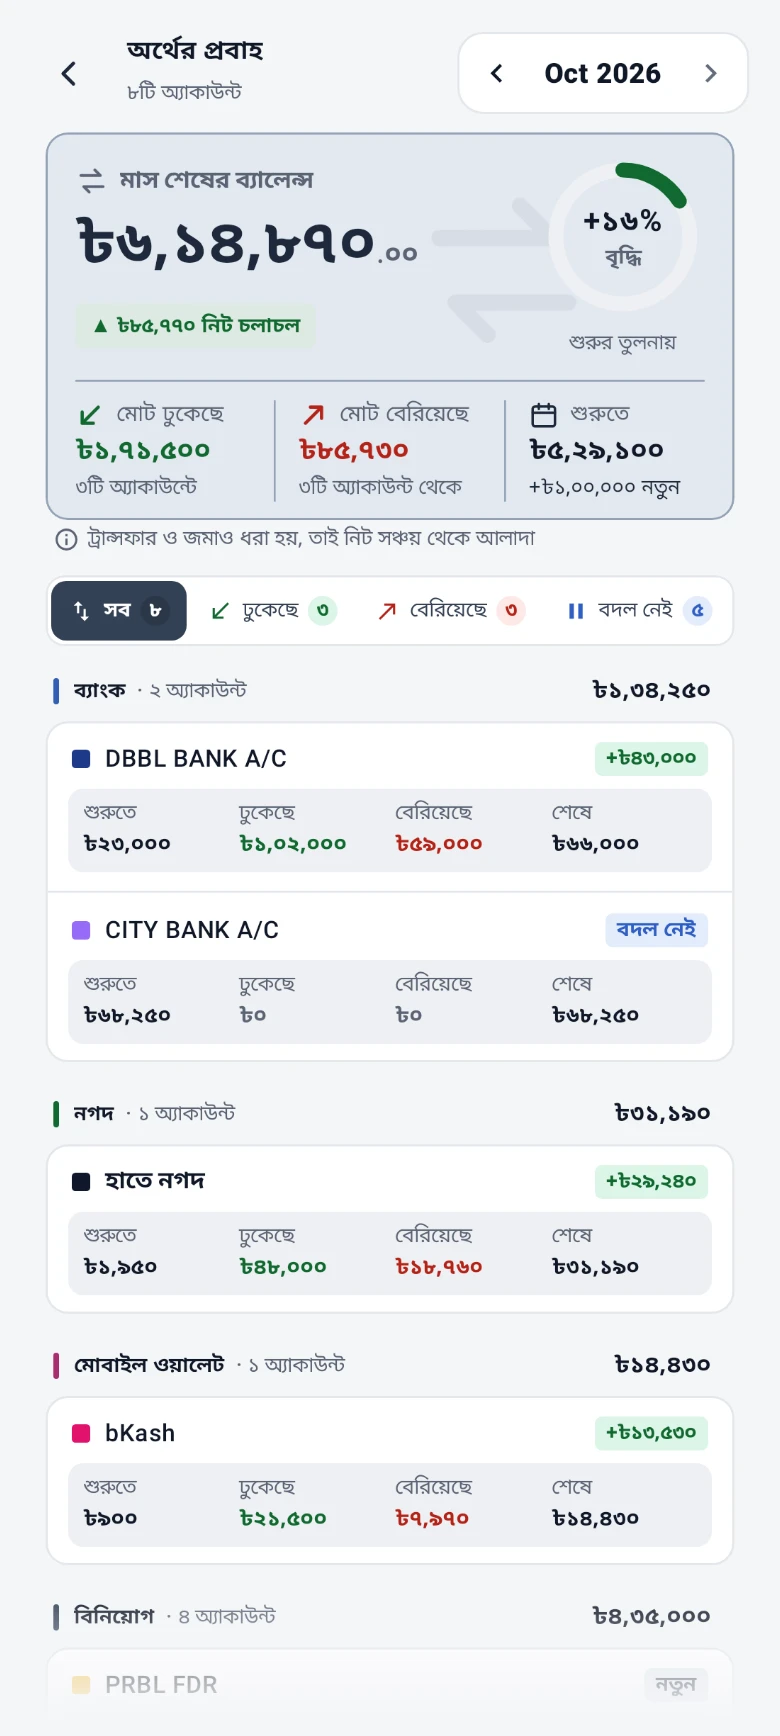
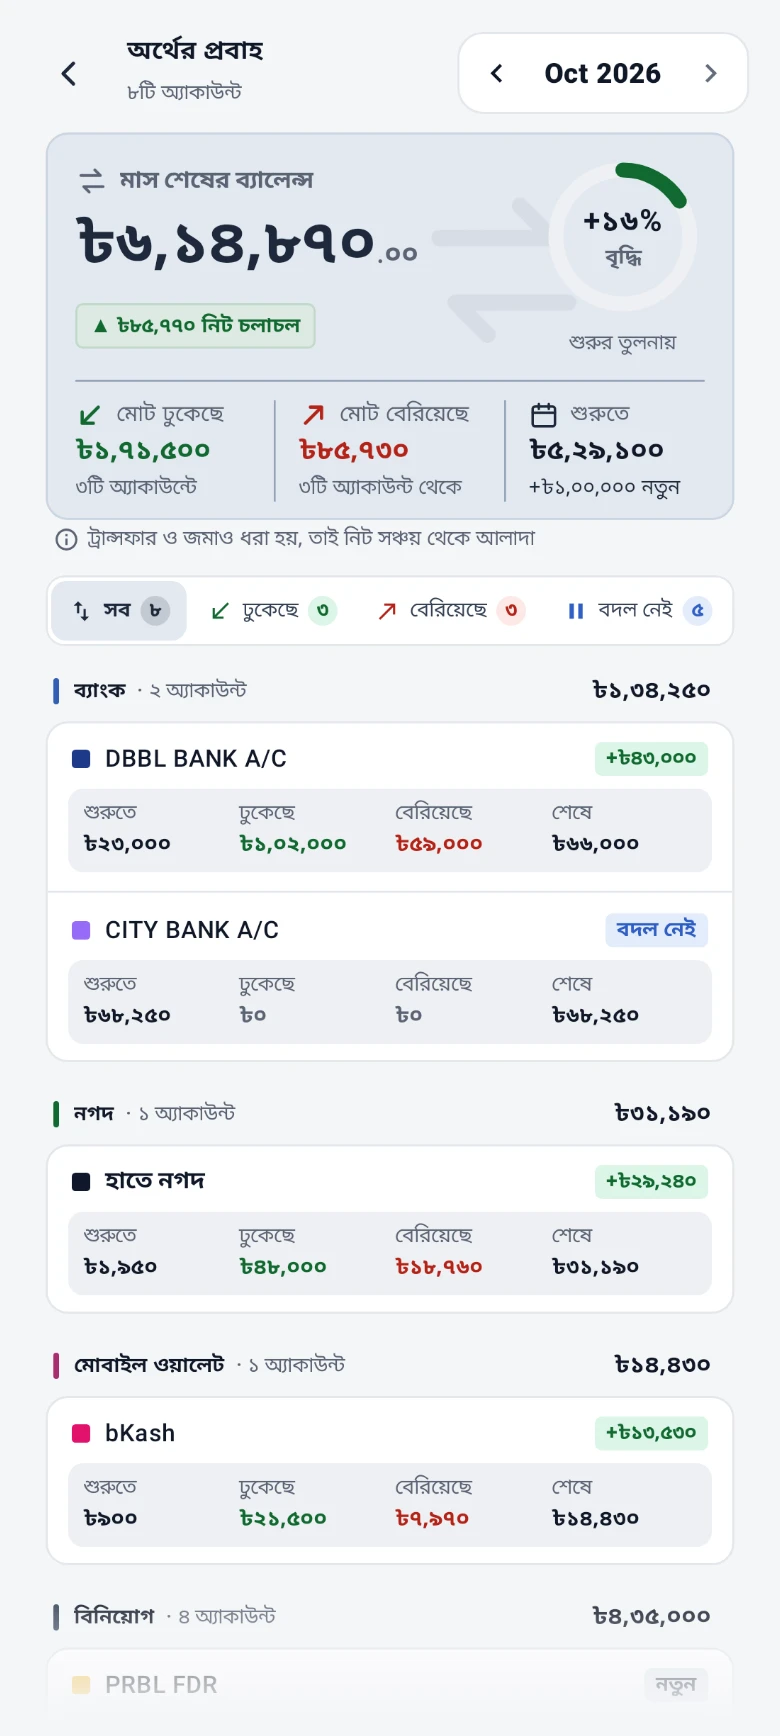
Website 2.26.3: follows app 2.3.2
- Features: light mode in graphite "(the default)", as a new install
  on the light theme now opens; a restore replaces nothing unless the
  undo copy is kept first, and a file that changed after it was
  checked is caught.
- Pictures rendered again from app 2.3.2: the light pairs of Accounts,
  Investments, Analytics, Money Flow, Loans and Transactions, with
  softer summary-card edges, edged change chips and Graphite's chosen
  filter chips. The other 32 and the share picture came out the same.
- 2.26.2's commit filled in the changelog.

Changed region(s): [[0.0615, 0.3111, 0.2462, 0.3733], [0.9231, 0.0933, 0.9538, 0.28], [0.0308, 0.0933, 0.0615, 0.28]]

diff --git a/assets/strings.js b/assets/strings.js
@@ -470,8 +470,10 @@ const S = {
   // Latest brings back the newest, and a failed daily backup is said out loud.
   // 2.0.7–2.1.2: Undo Last Restore, retired by the first change after the restore; Background
   // Work for a battery saver that holds the daily backup back is in f7Pass.
-  f7Body:       ['A backup is one file, kept where you choose — saved by you, or by the app every day into a folder that keeps the last seven days. Restore Latest brings back the newest copy: accounts, entries, loans and your profile; if it was the wrong file, Undo Last Restore puts back the ledger from before, until you change anything.',
-                 'ব্যাকআপ মানে একটি ফাইল, যা থাকে আপনার বেছে নেওয়া জায়গায় — আপনি নিজে সেভ করতে পারেন, অথবা অ্যাপ প্রতিদিন একটি ফোল্ডারে রাখে, যেখানে শেষ সাত দিনের কপি থাকে। "সর্বশেষ কপি রিস্টোর" সবচেয়ে নতুন কপি থেকে অ্যাকাউন্ট, এন্ট্রি, ধার আর আপনার প্রোফাইল ফিরিয়ে আনে; ভুল ফাইল রিস্টোর হয়ে গেলে "শেষ রিস্টোর ফিরিয়ে নিন" আগের খাতা ফিরিয়ে দেয়, যতক্ষণ না আপনি নতুন কিছু বদলান।'],
+  // 2.3.2: a restore replaces nothing unless the undo copy is kept, and a file changed after it
+  // was checked is caught (restoreReasonUndoCopyFailed, restoreReasonFileChanged).
+  f7Body:       ['A backup is one file, kept where you choose — saved by you, or by the app every day into a folder that keeps the last seven days. Restore Latest brings back the newest copy: accounts, entries, loans and your profile; if it was the wrong file, Undo Last Restore puts back the ledger from before, until you change anything. A restore replaces nothing unless that undo copy is kept first, and a file that changed after it was checked is caught.',
+                 'ব্যাকআপ মানে একটি ফাইল, যা থাকে আপনার বেছে নেওয়া জায়গায় — আপনি নিজে সেভ করতে পারেন, অথবা অ্যাপ প্রতিদিন একটি ফোল্ডারে রাখে, যেখানে শেষ সাত দিনের কপি থাকে। "সর্বশেষ কপি রিস্টোর" সবচেয়ে নতুন কপি থেকে অ্যাকাউন্ট, এন্ট্রি, ধার আর আপনার প্রোফাইল ফিরিয়ে আনে; ভুল ফাইল রিস্টোর হয়ে গেলে "শেষ রিস্টোর ফিরিয়ে নিন" আগের খাতা ফিরিয়ে দেয়, যতক্ষণ না আপনি নতুন কিছু বদলান। আগের খাতার এই কপি রাখা না গেলে রিস্টোর কিছুই বদলায় না, আর যাচাইয়ের পরে ফাইল বদলে গেলে অ্যাপ তা ধরে ফেলে।'],
   fPassHead:    ['A password for the backup',
                  'ব্যাকআপের পাসওয়ার্ড'],
   // 2.3.1: a password is at least 8 characters with a letter in it (2.3.0 said "not only
@@ -490,8 +492,9 @@ const S = {
                  'আপনার পছন্দমতো সাজিয়ে নিন'],
   // 2.3.0: the light theme offers Slate and Rainbow, the dark theme gold (Yellow) and Rainbow.
   // 2.3.1: the app calls Slate "Graphite" (গ্র্যাফাইট).
-  fLookBody:    ['Bangla or English; light mode in graphite or rainbow, dark mode in gold or rainbow; and the text size you like — change any of them whenever you want. Set to System, the text follows your phone’s settings, up to the app’s Large size; you can also pick Compact, Standard or Large yourself. Buttons are made easy to tap.',
-                 'বাংলা বা ইংরেজি; লাইট মোডে গ্র্যাফাইট বা রংধনু, ডার্ক মোডে সোনালি বা রংধনু থিম; আর পছন্দমতো ফন্ট সাইজ —সবকিছুই পরিবর্তন করতে পারবেন যখন খুশি। ফন্ট সাইজ System-এ রাখলে লেখা ফোনের সেটিংস অনুযায়ী দেখাবে, তবে অ্যাপের "বড়" সাইজের চেয়ে বড় হবে না। চাইলে কমপ্যাক্ট, স্ট্যান্ডার্ড বা বড় সাইজও বেছে নিতে পারবেন। বোতামগুলোও সহজে ট্যাপ করার মতো করে তৈরি।'],
+  // 2.3.2: the light theme opens in Graphite unless an accent was chosen.
+  fLookBody:    ['Bangla or English; light mode in graphite (the default) or rainbow, dark mode in gold or rainbow; and the text size you like — change any of them whenever you want. Set to System, the text follows your phone’s settings, up to the app’s Large size; you can also pick Compact, Standard or Large yourself. Buttons are made easy to tap.',
+                 'বাংলা বা ইংরেজি; লাইট মোডে গ্র্যাফাইট (শুরুতে এটাই) বা রংধনু, ডার্ক মোডে সোনালি বা রংধনু থিম; আর পছন্দমতো ফন্ট সাইজ —সবকিছুই পরিবর্তন করতে পারবেন যখন খুশি। ফন্ট সাইজ System-এ রাখলে লেখা ফোনের সেটিংস অনুযায়ী দেখাবে, তবে অ্যাপের "বড়" সাইজের চেয়ে বড় হবে না। চাইলে কমপ্যাক্ট, স্ট্যান্ডার্ড বা বড় সাইজও বেছে নিতে পারবেন। বোতামগুলোও সহজে ট্যাপ করার মতো করে তৈরি।'],
   // 1.1.69. Said as the release notes say it: what goes in the list, and that the list
   // is the phone's alone -- the privacy page's promise has to hold for it too.
   f9Head:       ['A list behind the bell', 'বেল আইকনে একটি তালিকা'],

diff --git a/features.html b/features.html
@@ -275,7 +275,7 @@
       <article class="card fcard">
         <span class="tile"><svg class="ico" viewBox="0 0 24 24" aria-hidden="true"><path d="M14 2H6a2 2 0 0 0-2 2v16a2 2 0 0 0 2 2h12a2 2 0 0 0 2-2V8z"/><path d="M14 2v6h6"/><rect x="9" y="13" width="6" height="5" rx="1"/><path d="M10 13v-1.5a2 2 0 0 1 4 0V13"/></svg></span>
         <h3 data-s="f7Head">Backups you hold yourself</h3>
-        <p data-s="f7Body">A backup is one file, kept where you choose — saved by you, or by the app every day into a folder that keeps the last seven days. Restore Latest brings back the newest copy: accounts, entries, loans and your profile; if it was the wrong file, Undo Last Restore puts back the ledger from before, until you change anything.</p>
+        <p data-s="f7Body">A backup is one file, kept where you choose — saved by you, or by the app every day into a folder that keeps the last seven days. Restore Latest brings back the newest copy: accounts, entries, loans and your profile; if it was the wrong file, Undo Last Restore puts back the ledger from before, until you change anything. A restore replaces nothing unless that undo copy is kept first, and a file that changed after it was checked is caught.</p>
       </article>
       <article class="card fcard">
         <span class="tile"><svg class="ico" viewBox="0 0 24 24" aria-hidden="true"><circle cx="7.5" cy="15.5" r="4.5"/><path d="m10.7 12.3 9.3-9.3M17 6l3 3M14 9l2 2"/></svg></span>
@@ -290,7 +290,7 @@
       <article class="card fcard">
         <span class="tile"><svg class="ico" viewBox="0 0 24 24" aria-hidden="true"><circle cx="12" cy="12" r="9"/><path d="M3 12h18M12 3c2.5 2.5 3.8 5.5 3.8 9s-1.3 6.5-3.8 9c-2.5-2.5-3.8-5.5-3.8-9S9.5 5.5 12 3z"/></svg></span>
         <h3 data-s="fLookHead">Set it up your way</h3>
-        <p data-s="fLookBody">Bangla or English; light mode in graphite or rainbow, dark mode in gold or rainbow; and the text size you like — change any of them whenever you want. Set to System, the text follows your phone’s settings, up to the app’s Large size; you can also pick Compact, Standard or Large yourself. Buttons are made easy to tap.</p>
+        <p data-s="fLookBody">Bangla or English; light mode in graphite (the default) or rainbow, dark mode in gold or rainbow; and the text size you like — change any of them whenever you want. Set to System, the text follows your phone’s settings, up to the app’s Large size; you can also pick Compact, Standard or Large yourself. Buttons are made easy to tap.</p>
       </article>
     </div>
   </section>
@@ -324,7 +324,7 @@
       <p data-s="footerNote">Built for keeping one household’s books. No trackers on this page.</p>
     </div>
     <p class="foot-links">
-      <span class="foot-ver" data-site-version>Website v2.26.2</span>
+      <span class="foot-ver" data-site-version>Website v2.26.3</span>
       <a href="privacy.html" data-s="navPrivacy">Privacy</a>
       <a href="install.html" data-s="navInstall">How to install</a>
     </p>

diff --git a/_tools/gallery-changes.js b/_tools/gallery-changes.js
@@ -1,5 +1,5 @@
 // Website render only, never committed to the app: the site's changes to the gallery, applied
-// to a worktree of the release tag (v2.3.1 since site 2.26.1). Usage: node gallery-changes.js <worktree>. Built for site
+// to a worktree of the release tag (v2.3.2 since site 2.26.3). Usage: node gallery-changes.js <worktree>. Built for site
 // 2.21.0-2.23.2; the month counted from the gallery's held clock (25 Oct 2026) since 2.25.1.
 const fs = require('fs');
 const root = process.argv[2] + '/app/src/test/java/com/ledgerbook/app/gallery/';

diff --git a/index.html b/index.html
@@ -355,7 +355,7 @@
       <p data-s="footerNote">Built for keeping one household’s books. No trackers on this page.</p>
     </div>
     <p class="foot-links">
-      <span class="foot-ver" data-site-version>Website v2.26.2</span>
+      <span class="foot-ver" data-site-version>Website v2.26.3</span>
       <a href="privacy.html" data-s="navPrivacy">Privacy</a>
       <a href="install.html" data-s="navInstall">How to install</a>
     </p>

diff --git a/install.html b/install.html
@@ -234,7 +234,7 @@
       <p data-s="footerNote">Built for keeping one household’s books. No trackers on this page.</p>
     </div>
     <p class="foot-links">
-      <span class="foot-ver" data-site-version>Website v2.26.2</span>
+      <span class="foot-ver" data-site-version>Website v2.26.3</span>
       <a href="privacy.html" data-s="navPrivacy">Privacy</a>
       <a href="install.html" data-s="navInstall">How to install</a>
     </p>

diff --git a/privacy.html b/privacy.html
@@ -219,7 +219,7 @@
       <p data-s="footerNote">Built for keeping one household’s books. No trackers on this page.</p>
     </div>
     <p class="foot-links">
-      <span class="foot-ver" data-site-version>Website v2.26.2</span>
+      <span class="foot-ver" data-site-version>Website v2.26.3</span>
       <a href="privacy.html" data-s="navPrivacy">Privacy</a>
       <a href="install.html" data-s="navInstall">How to install</a>
     </p>

diff --git a/assets/site.js b/assets/site.js
@@ -30,7 +30,7 @@ document.documentElement.classList.add('js');
  * number for a fix to what is there, the middle one for a new page, section or feature.
  * The app's version is a separate thing and comes from the releases API.
  */
-const SITE_VERSION = '2.26.2';
+const SITE_VERSION = '2.26.3';
 
 const LANGS = { en: 0, bn: 1 };
 // The language actually on the page. Where storage is blocked the saved choice cannot

diff --git a/CHANGELOG.md b/CHANGELOG.md
@@ -12,7 +12,8 @@ Counted back over the history when the number was introduced; repository houseke
 
 | Version | Date | Commit | What |
 |---|---|---|---|
-| 2.26.2 | 2026-11-26 | — | The light pictures in Graphite rather than Rainbow, the owner's choice: all 22, the first-launch steps among them, rendered again from app 2.3.1. gallery-changes.js names the gallery's light Sky look for the app's Slate (LightSlate, "light-slate") and towebp.js takes it for every light picture; the dark ones and the share picture came out the same. And 2.26.1's commit in the changelog |
+| 2.26.3 | 2026-11-26 | — | Follows app 2.3.2. Features: light mode in graphite "(the default)", as a new install on the light theme now opens; a restore replaces nothing unless the undo copy is kept first, and a file that changed after it was checked is caught. Pictures rendered again from app 2.3.2: the light pairs of Accounts, Investments, Analytics, Money Flow, Loans and Transactions, with softer summary-card edges, edged change chips and Graphite's chosen filter chips; the other 32 and the share picture came out the same. And 2.26.2's commit in the changelog |
+| 2.26.2 | 2026-11-26 | fc52e45 | The light pictures in Graphite rather than Rainbow, the owner's choice: all 22, the first-launch steps among them, rendered again from app 2.3.1. gallery-changes.js names the gallery's light Sky look for the app's Slate (LightSlate, "light-slate") and towebp.js takes it for every light picture; the dark ones and the share picture came out the same. And 2.26.1's commit in the changelog |
 | 2.26.1 | 2026-11-26 | a055048 | Follows app 2.3.1. Features: the light theme's dark accent by the name the app now gives it, graphite (it said "slate"); a backup password is at least 8 characters with a letter (it said "not only numbers", which let a date or a phone number with a slash or a dash through, as 2.3.0 did). Pictures rendered again from app 2.3.1: the light pairs of Home, Accounts, Investments, Analytics and Money Flow, their summary cards tinted violet under Rainbow and Home's two head cards on a soft shadow, and the dark pairs of Analytics and Money Flow with their rules stopped short of the card's edges; the other 30 and the share picture came out the same. And 2.26.0's commit in the changelog |
 | 2.26.0 | 2026-11-25 | 1e7bdd5 | Follows app 2.3.0. Features: the accents by theme — light mode in slate or rainbow, dark mode in gold or rainbow (it said "gold, sky blue or rainbow"); a backup password is at least 8 characters, not only numbers, and the app says when the daily backup's saved one is weaker; a DPS's instalments can be paid after maturity and earn nothing; a DPS closed early earns on each instalment from its own due day (any DPS, not only a monthly one) and can be closed with the bank's own figures, with a word when the profit is far above the reckoning; five wrong PINs lock for 30 seconds, each lockout after twice as long, up to four hours. Install: the app checks its own updates against the fingerprint and the signing key. The new-phone question: install the newest version there, since a backup from 2.3.0 does not open in an older one, and a password-protected one made on Android 8 or newer needs Android 8 or newer. Pictures rendered again from app 2.3.0: the light first-launch steps in Rainbow, as a new install on the light theme now opens (towebp.js takes them from -light-rainbow), Home's light pair with its calendar mark and Backups' with Rainbow's deeper green; the other 34 and the share picture came out the same. And 2.25.29's commit in the changelog |
 | 2.25.29 | 2026-11-24 | 3fa5fa4 | The app's pictures retaken from app 2.2.9, the light ones in its new Rainbow accent (the owner's choice) and the dark ones in Yellow, which Rainbow is after dark; the first-launch steps stay Yellow, as a new install starts. gallery-changes.js adds the Rainbow look the gallery lacks and drops its Money Flow 12dp change, which 2.2.7 released. Features names the third accent: "gold, sky blue or rainbow" / "সোনালি, আকাশি বা রংধনু". And 2.25.28's commit in the changelog |

diff --git a/README.md b/README.md
@@ -55,7 +55,7 @@ read — the ink is a step deeper for exactly that reason. The app hit this same
 
 ## The website's version
 
-Every footer says "Website v2.26.2". `CHANGELOG.md` lists every version and what it was. The number lives once, as SITE_VERSION at the top of
+Every footer says "Website v2.26.3". `CHANGELOG.md` lists every version and what it was. The number lives once, as SITE_VERSION at the top of
 `assets/site.js`, and is raised on every publish: the last part for a fix to what is
 there, the middle part for a new page, section or feature. It is the site's own version and
 has nothing to do with the app's.

diff --git a/_tools/README.md b/_tools/README.md
@@ -17,13 +17,13 @@ in `assets/screens/SOURCE`.
 
 ## Steps
 
-The tag is the app release the pictures should show (`v2.3.1` below); `$S` is any scratch
+The tag is the app release the pictures should show (`v2.3.2` below); `$S` is any scratch
 folder. One Gradle run at a time on this machine; never `connectedAndroidTest`.
 
 ```sh
 # 1. A worktree of the release, with the site's changes
 cd /e/Projects/LedgerBook
-git -c core.longpaths=true worktree add --detach "$S/g" v2.3.1
+git -c core.longpaths=true worktree add --detach "$S/g" v2.3.2
 cp local.properties "$S/g/"
 node site/_tools/gallery-changes.js "$S/g"
 
